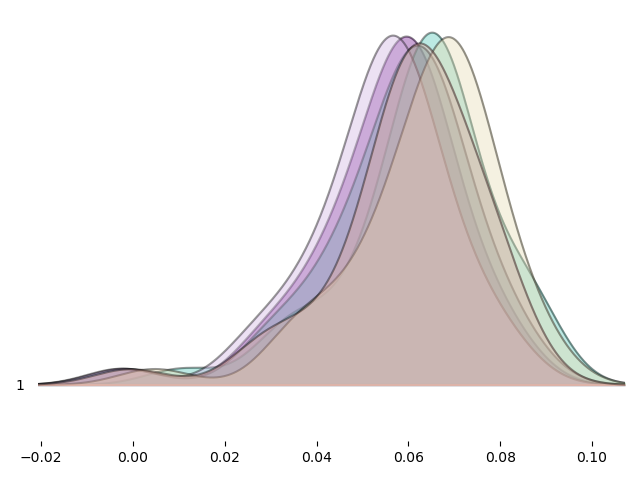
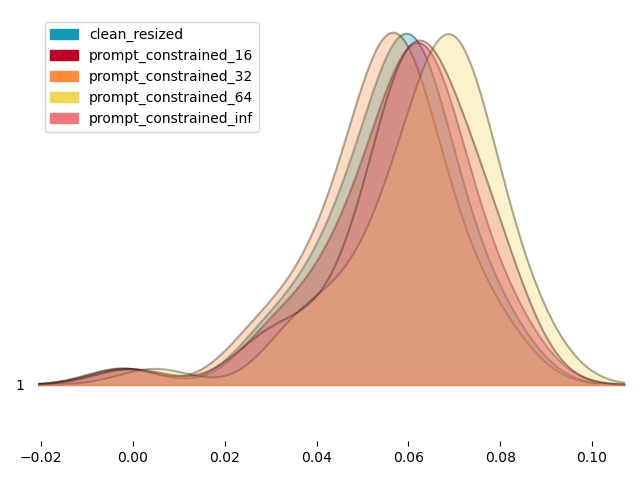
modified mountain plot

Changed region(s): [[0.0625, 0.0625, 0.9688, 0.8125], [0.0625, 0.0312, 0.4062, 0.2812]]

diff --git a/visualization.py b/visualization.py
@@ -136,19 +136,23 @@ def cos_sim_distribution(path:str):
     # read the csv file
     df = pd.read_csv(path)
     df = df[df["is_malicious"]==1]
-    col_names = [col for col in df.columns if "250" in col]
+    col_names = [col for col in df.columns if "250" in col and "clean_test" not in col]
     data = df[col_names]
+    # rename columns and throw the postfix "denoised_250times"
+    data.columns = ["_".join(col.split("_")[:-2]) for col in col_names]
     # data = data.melt(var_name="pic_type", value_name="cos_sim")
     print(f"shape: {data.shape}")
     print(data.head())
 
     # plot the distribution, x-axis: cossim, y-axis: frequency
-    nplot = data.shape[1]
     # Draw Plot
     data["is_malicious"] = 1 # add a common column to group by(draw in one axis)
     # set alpha=0.6 to show the overlapping
-    fig, axes = joypy.joyplot(data, by="is_malicious", column=col_names, 
-                              alpha=0.4, color=['#791E94','#58C9B9','#519D9E','#D1B6E1','#E8DDB5','#E2A9A1'])
+    colors = ["#1399B2","#BD0026","#FD8D3C","#F1D756","#EF767B"]
+    fig, axes = joypy.joyplot(data, by="is_malicious", column=list(data.columns),
+                              alpha=0.3, color=colors, legend=True, loc="upper left"
+                              )
+    plt.tight_layout()
     # plt.show()
     plt.savefig("./src/results/denoise250_cossim_distribution.png")
     return
